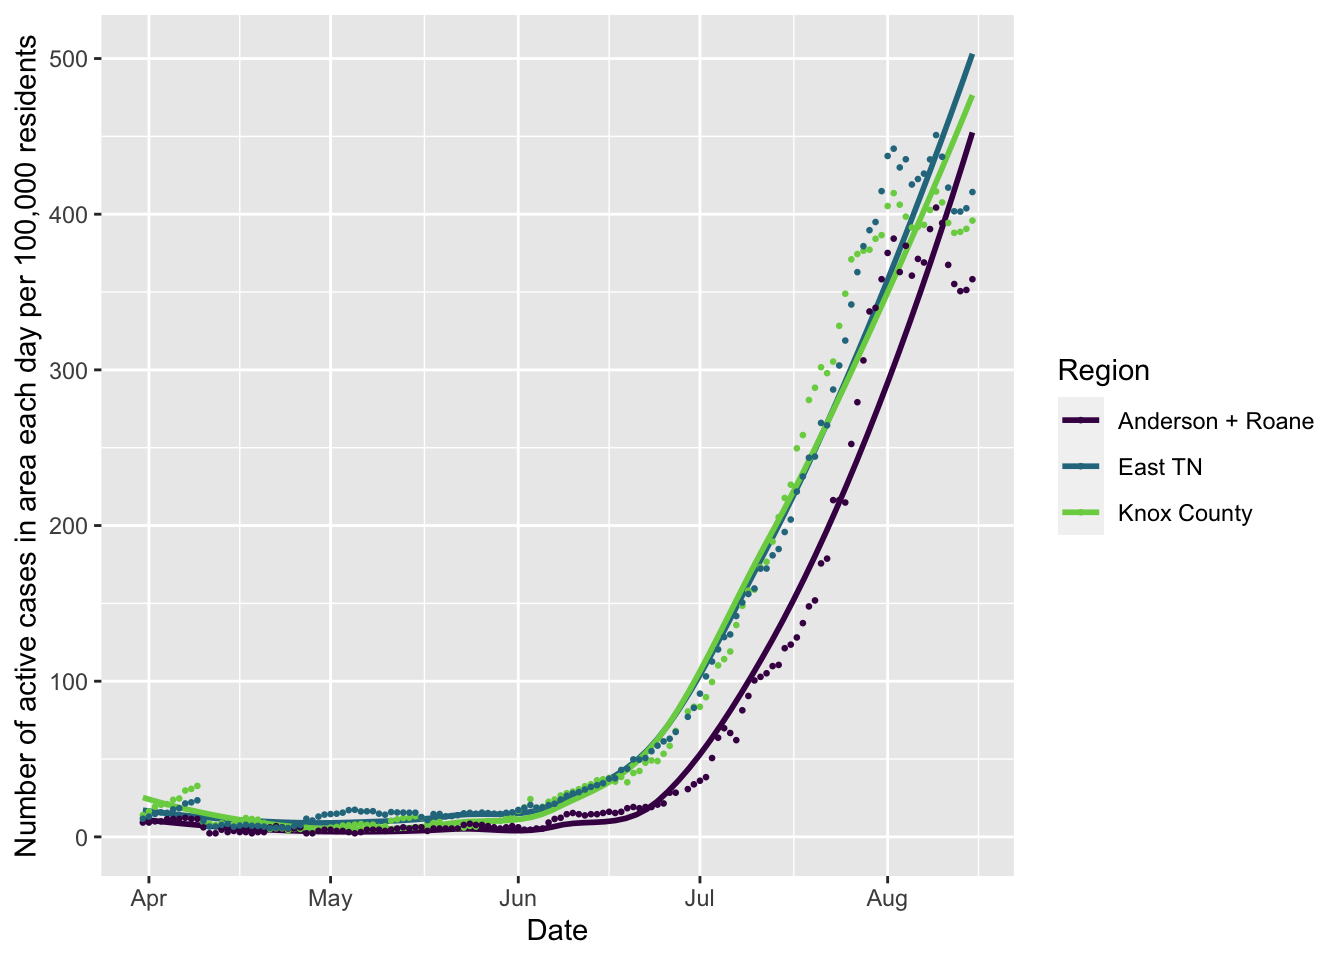
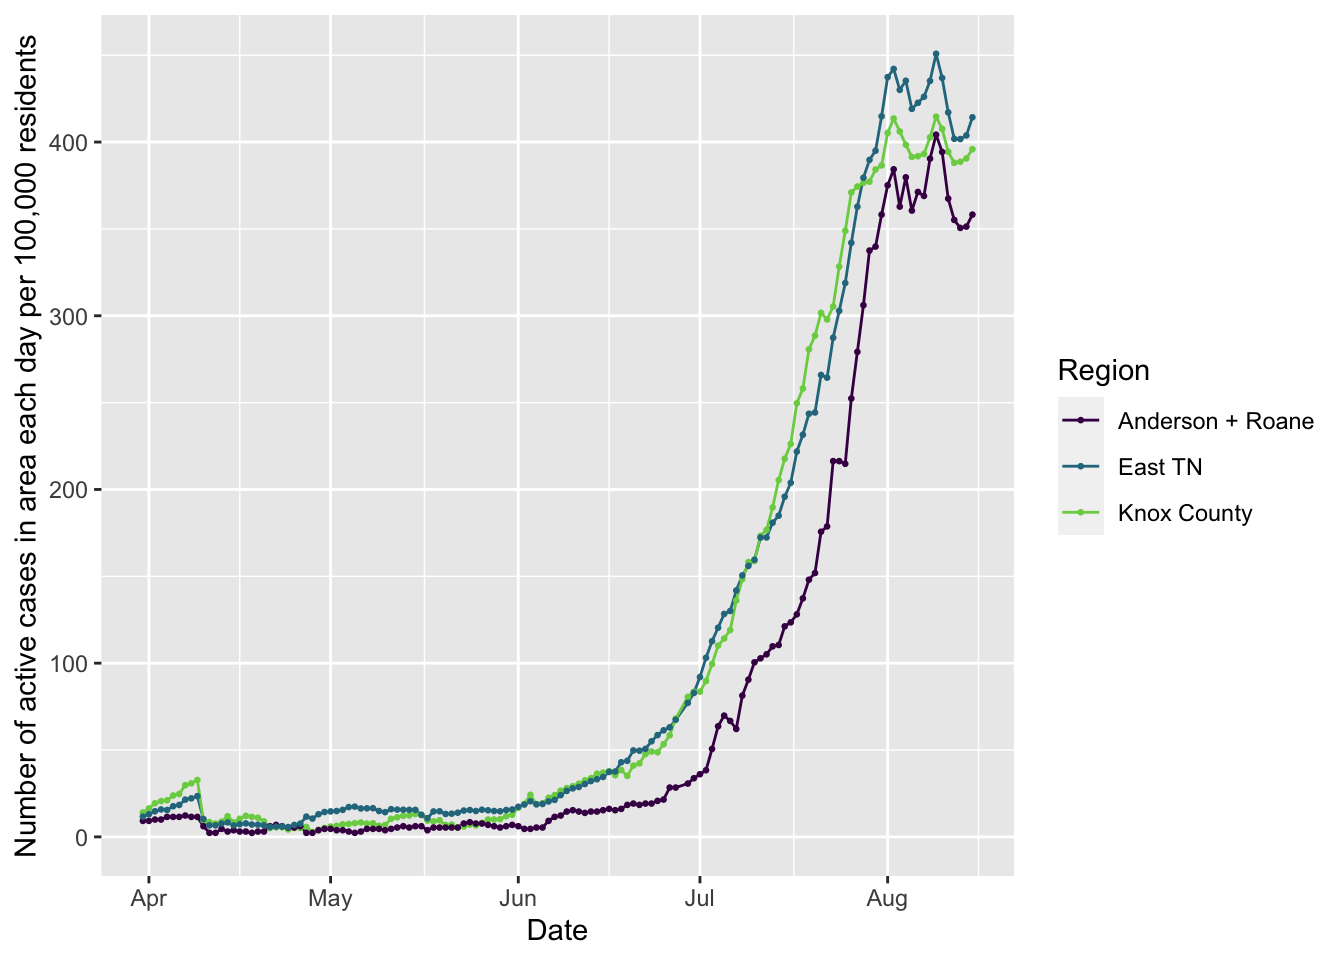
updating site

diff --git a/docs/covid.html b/docs/covid.html
@@ -423,7 +423,7 @@ $(document).ready(function () {
 <li>Info about cases at <a href="#ut">U. of Tennessee, Knoxville</a> (using public information only)</li>
 <li><a href="#webcams">Webcams</a> showing activity at local sites, though not quite at the resolution to point to mask usage or not</li>
 </ul>
-<p>The following plots are created in R using data from <a href="https://covid19datahub.io" class="uri">https://covid19datahub.io</a> (Guidotti, E., Ardia, D., (2020), “COVID-19 Data Hub”, Working paper, doi: 10.13140/RG.2.2.11649.81763), as well as information from Google and the <a href="https://www.tn.gov/health/cedep/ncov/data/downloadable-datasets.html">state of Tennessee dataset page</a> and plotting and analysis using the <code>forecast</code>, <code>ggplot2</code>, <code>reshape2</code>, and <code>dplyr</code> packages. Plots created on 2020-08-15 22:14:04. I use <code>ggplot2</code>’s <code>geom_smooth()</code> function for the smoothed regression plots with its default formula, which uses loess smoothing for this many points. This is not based on a model of disease spread or anything similarly sophisticated, just drawing a smooth curve to summarize noisy points (see <a href="https://www.itl.nist.gov/div898/handbook/pmd/section1/pmd144.htm">here</a> for more details).</p>
+<p>The following plots are created in R using data from <a href="https://covid19datahub.io" class="uri">https://covid19datahub.io</a> (Guidotti, E., Ardia, D., (2020), “COVID-19 Data Hub”, Working paper, doi: 10.13140/RG.2.2.11649.81763), as well as information from Google and the <a href="https://www.tn.gov/health/cedep/ncov/data/downloadable-datasets.html">state of Tennessee dataset page</a> and plotting and analysis using the <code>forecast</code>, <code>ggplot2</code>, <code>reshape2</code>, and <code>dplyr</code> packages. Plots created on 2020-08-15 22:18:57. I use <code>ggplot2</code>’s <code>geom_smooth()</code> function for the smoothed regression plots with its default formula, which uses loess smoothing for this many points. This is not based on a model of disease spread or anything similarly sophisticated, just drawing a smooth curve to summarize noisy points (see <a href="https://www.itl.nist.gov/div898/handbook/pmd/section1/pmd144.htm">here</a> for more details).</p>
 <h2 id="cases">
 Cases
 </h2>
@@ -434,7 +434,7 @@ Cases
 <li>Anderson &amp; Roane Counties, which include the town of Oak Ridge</li>
 <li>East TN (the 14 counties that have acute care hospitals in Knox County/East Region according to Knox County)</li>
 </ul>
-<p>For most of these plots, I am now showing the smoothed curves rather than the raw points per day – these can jump around quite a bit.</p>
+<p>For many of these plots, I am now showing the smoothed curves rather than line connecting the raw points per day – these can jump around quite a bit (such as for things like tests per day). However, where the loess smoothing seems to be obscuring rather than clarifying, I just plot the line connecting the points.</p>
 <p><img src="covid_files/figure-html/plotsA-1.png" width="672" /><img src="covid_files/figure-html/plotsA-2.png" width="672" /></p>
 <p>Here are the same plots, but normalized so it’s per 100,000 residents in each area per day (making it easier to see patterns in less populous areas):</p>
 <p><img src="covid_files/figure-html/plotsA2-1.png" width="672" /><img src="covid_files/figure-html/plotsA2-2.png" width="672" /></p>
@@ -455,8 +455,6 @@ Schooling
 <p><img src="covid_files/figure-html/harvardstandards-1.png" width="672" /></p>
 <p>Tennessee now breaks out covid test results for school age children (age 5-18). The number of tests in this age group and the underlying population size aren’t known to me, so things like positivity rate and proportion of students infected cannot be determined, but the raw number of students infected can be shown:</p>
 <p><img src="covid_files/figure-html/studentinfections-1.png" width="672" /><img src="covid_files/figure-html/studentinfections-2.png" width="672" /></p>
-<p><a href="https://www.acs.ac/">Anderson County</a> has a school plan based on the percentage of the community actively infected with covid. Their schools open later than Oak Ridge schools, but it might be a useful indicator for community thinking. Note that Anderson’s metric is based on the <em>number</em> of people with active covid (those with positive tests who are not yet recovered or deceased) and so it may be sensitive to the number of tests in a way that the positivity rate is not; in the areas between phases they use other information to make a determination, such as number of absences of students and teachers.</p>
-<p><img src="covid_files/figure-html/andersonstandards-1.png" width="672" /></p>
 <hr />
 <h2 id="hospitalization">
 Hospitalization
